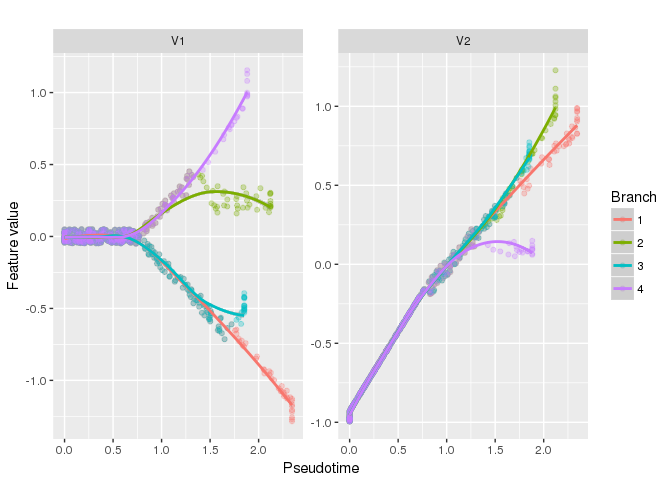
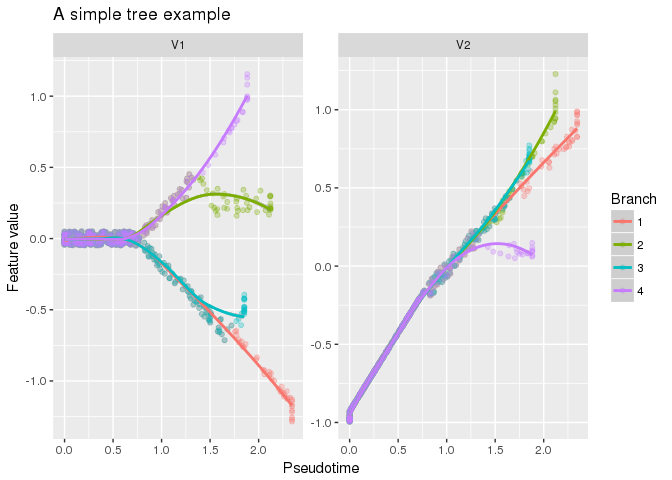
minor update to the guide

diff --git a/guides/pseudo.md b/guides/pseudo.md
@@ -90,7 +90,7 @@ As a first step, we will construct a tree structure on the sample data
     ## 14 15 16 17 18 19 20 21 22 23 24 25 26 27 28 29 30 31 32 33 34 35 36 37 38 39 40 41 42 43 44 45 46 47 48 49 
     ## BARCODE  ENERGY  NNODES  NEDGES  NRIBS   NSTARS  NRAYS   NRAYS2  MSE MSEP    FVE FVEP    UE  UR  URN URN2    URSD
     ## 1|2||50  0.01568 50  49  41  2   0   0   0.004137    0.003432    0.9923  0.9936  0.01114 0.0004032   0.02016 1.008   0
-    ## 14.839 sec elapsed
+    ## 14.851 sec elapsed
     ## [[1]]
 
 ![](pseudo_files/figure-markdown_strict/unnamed-chunk-1-1.png)
@@ -140,23 +140,23 @@ are compatible with our expectations
     SelPaths
 
     ## [[1]]
-    ## + 23/50 vertices, named, from ccfd619:
+    ## + 23/50 vertices, named, from 4fb6db9:
     ##  [1] 2  11 16 46 25 28 38 6  1  5  32 17 26 36 13 9  24 19 43 48 40 8  4 
     ## 
     ## [[2]]
-    ## + 22/50 vertices, named, from ccfd619:
+    ## + 22/50 vertices, named, from 4fb6db9:
     ##  [1] 2  11 16 46 25 28 38 6  1  10 18 30 22 12 3  42 45 41 33 35 7  15
     ## 
     ## [[3]]
-    ## + 19/50 vertices, named, from ccfd619:
+    ## + 19/50 vertices, named, from 4fb6db9:
     ##  [1] 2  11 16 46 25 28 38 6  1  5  32 17 26 36 13 9  24 19 20
     ## 
     ## [[4]]
-    ## + 20/50 vertices, named, from ccfd619:
+    ## + 20/50 vertices, named, from 4fb6db9:
     ##  [1] 2  11 16 46 25 28 38 6  1  10 18 30 22 12 3  31 49 37 21 23
     ## 
     ## [[5]]
-    ## + 23/50 vertices, named, from ccfd619:
+    ## + 23/50 vertices, named, from 4fb6db9:
     ##  [1] 2  11 16 46 25 28 38 6  1  10 18 30 22 12 3  27 34 39 50 47 44 14 29
 
 Getting the supporting structures
@@ -221,7 +221,7 @@ It is possible to visualize this information using the
                       TargetPG = TreeEPG[[1]],
                       Partition = PartStruct$Partition,
                       PrjStr = ProjStruct,
-                      Main = "",
+                      Main = "A simple tree example",
                       Features = 2)
 
     ## `geom_smooth()` using method = 'loess' and formula 'y ~ x'
